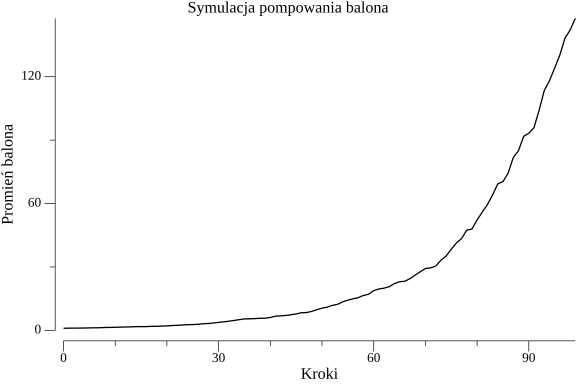
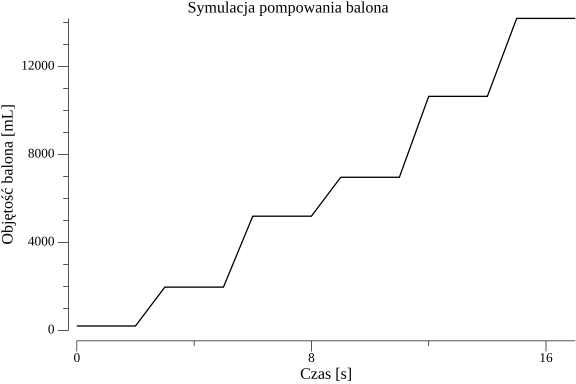
Adding fixed air volume plot

diff --git a/main.go b/main.go
@@ -5,6 +5,7 @@ import (
 	"log"
 	"math"
 	"math/rand"
+	"time"
 
 	"gonum.org/v1/plot"
 	"gonum.org/v1/plot/plotter"
@@ -29,33 +30,42 @@ type Balon struct {
 
 func main() {
 
+	rand.Seed(time.Now().UnixNano())
+
 	// latexBalon := Balon{
 	//Volume: 15 ,
 	//Material: "Latex" ,
 	//}
 
-	// Parametry symulacji
-	numSteps := 100
-	inflationRate := 0.1 // Współczynnik rozciągliwości balona
-
 	// Inicjalizacja balona
-	radius := 1.0
-	balloon := make([]float64, numSteps)
-	balloon[0] = radius
+	var radius float64 = 200
+	var balloon []float64
+	balloon = append(balloon, 200)
+	var time int = 0
 
 	// Tworzenie wykresu
 	p := plot.New()
 
 	// Symulacja pompowania balona
-	for step := 1; step < numSteps; step++ {
+	for radius < 15000 {
 		// Symulacja rozciągliwości balona
-		radius = radius * (1 + inflationRate*rand.Float64())
-		balloon[step] = radius
+		time += 1
+		if time%3 == 0 {
+			radius = radius + 1000 + 3000*rand.Float64()
+			balloon = append(balloon, radius)
+			fmt.Println("if")
+		} else {
+			balloon = append(balloon, radius)
+			fmt.Println("else")
+		}
+		fmt.Println(balloon[time])
+		fmt.Println(time)
+
 	}
 
 	// Przygotowanie danych
-	pts := make(plotter.XYs, numSteps)
-	for i := 0; i < numSteps; i++ {
+	pts := make(plotter.XYs, time)
+	for i := 0; i < time; i++ {
 		pts[i].X = float64(i)
 		pts[i].Y = balloon[i]
 	}
@@ -69,8 +79,8 @@ func main() {
 
 	// Ustawienia wykresu
 	p.Title.Text = "Symulacja pompowania balona"
-	p.X.Label.Text = "Kroki"
-	p.Y.Label.Text = "Promień balona"
+	p.X.Label.Text = "Czas [s]"
+	p.Y.Label.Text = "Objętość balona [mL]"
 	p.X.Min = 0
 	p.Y.Min = 0
 
